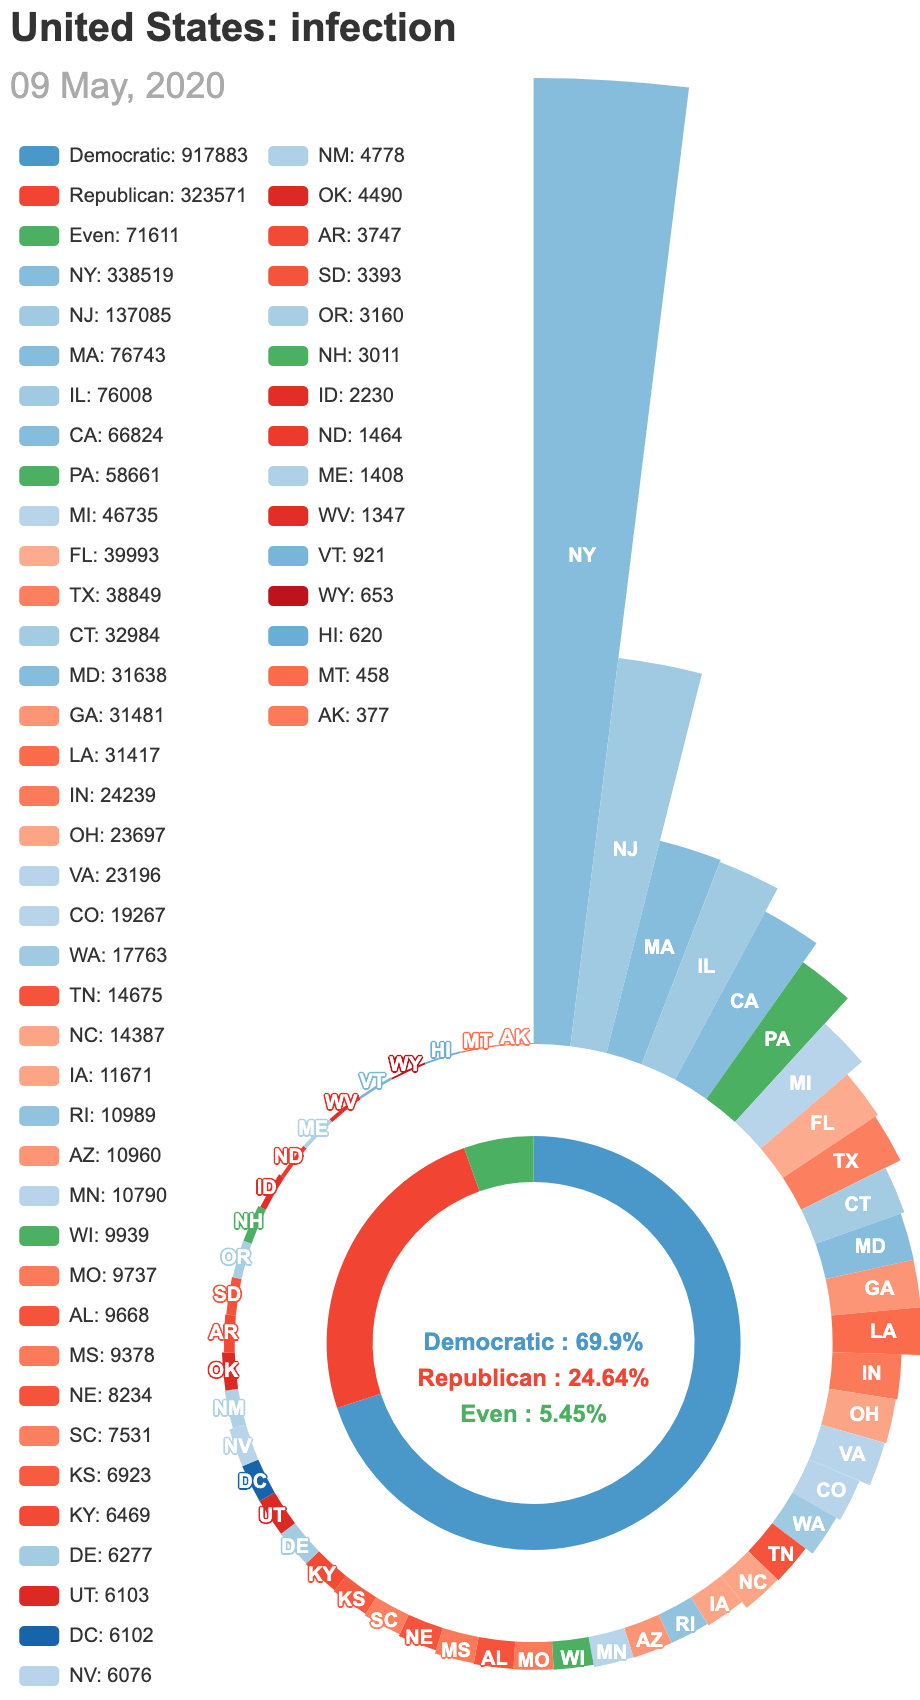
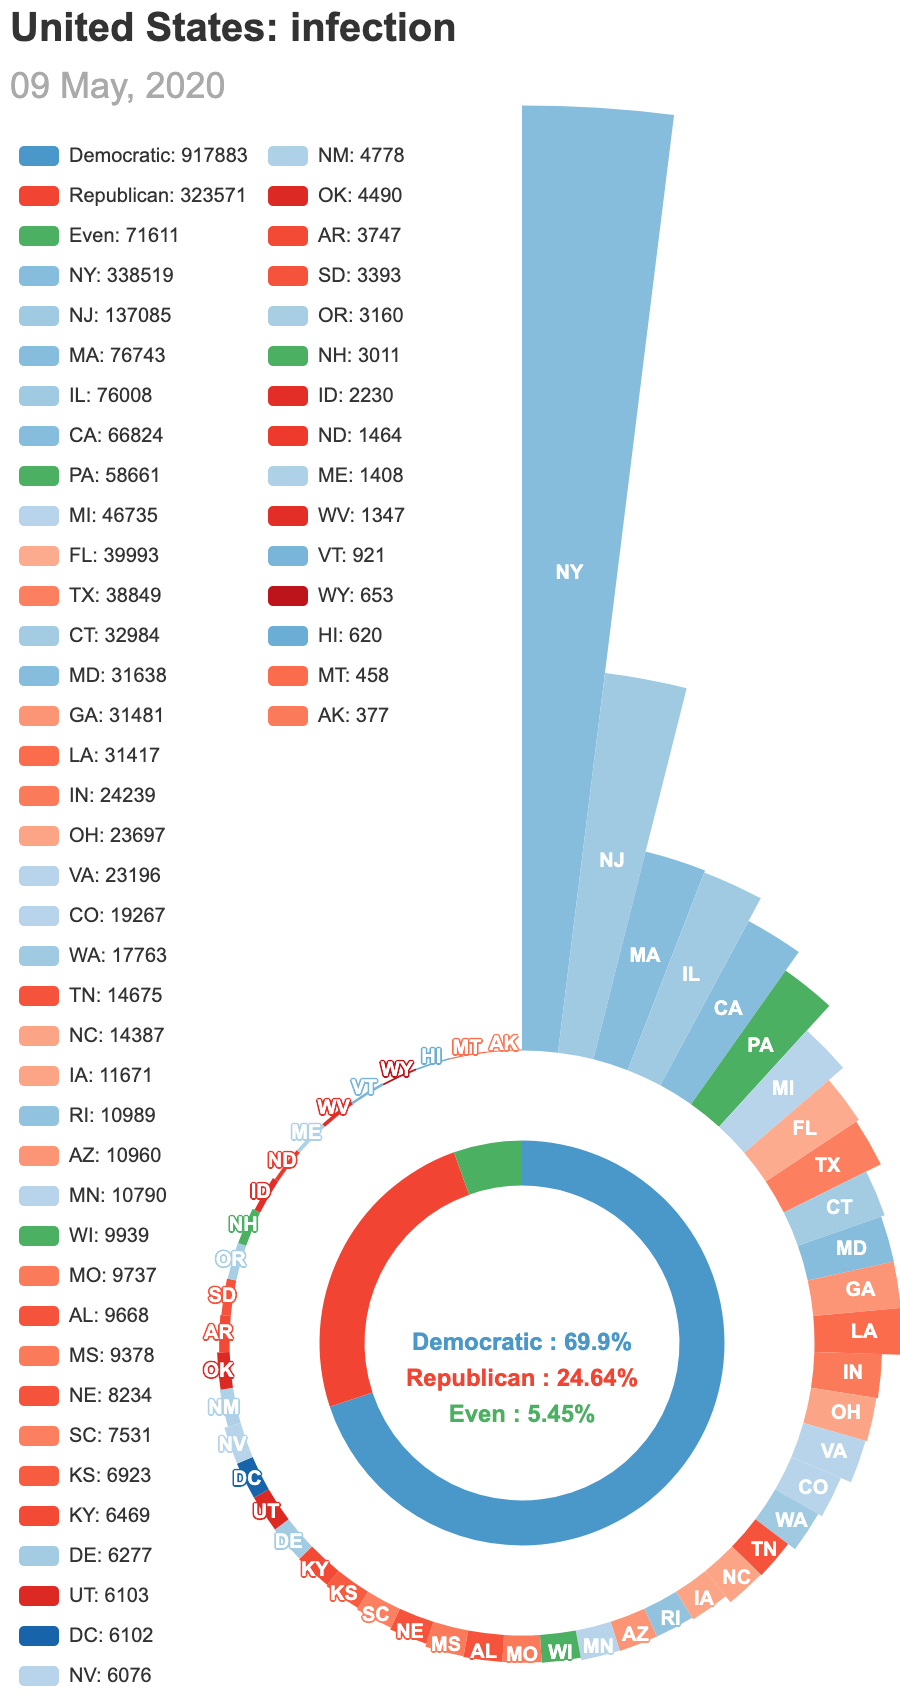
Add files via upload

diff --git a/covid-19/figures_us/US_rose.html b/covid-19/figures_us/US_rose.html
@@ -7,11 +7,11 @@
 
 </head>
 <body>
-    <div id="564180a96ad34342a218353c2d29c17e" class="chart-container" style="width:460px; height:850px;"></div>
+    <div id="ac51f9cabf144932ab5ffa4bcf37ecee" class="chart-container" style="width:450px; height:850px;"></div>
     <script>
-        var chart_564180a96ad34342a218353c2d29c17e = echarts.init(
-            document.getElementById('564180a96ad34342a218353c2d29c17e'), 'white', {renderer: 'canvas'});
-        var option_564180a96ad34342a218353c2d29c17e = {
+        var chart_ac51f9cabf144932ab5ffa4bcf37ecee = echarts.init(
+            document.getElementById('ac51f9cabf144932ab5ffa4bcf37ecee'), 'white', {renderer: 'canvas'});
+        var option_ac51f9cabf144932ab5ffa4bcf37ecee = {
     "animation": true,
     "animationThreshold": 2000,
     "animationDuration": 1000,
@@ -444,7 +444,7 @@
         }
     ]
 };
-        chart_564180a96ad34342a218353c2d29c17e.setOption(option_564180a96ad34342a218353c2d29c17e);
+        chart_ac51f9cabf144932ab5ffa4bcf37ecee.setOption(option_ac51f9cabf144932ab5ffa4bcf37ecee);
     </script>
 </body>
 </html>
